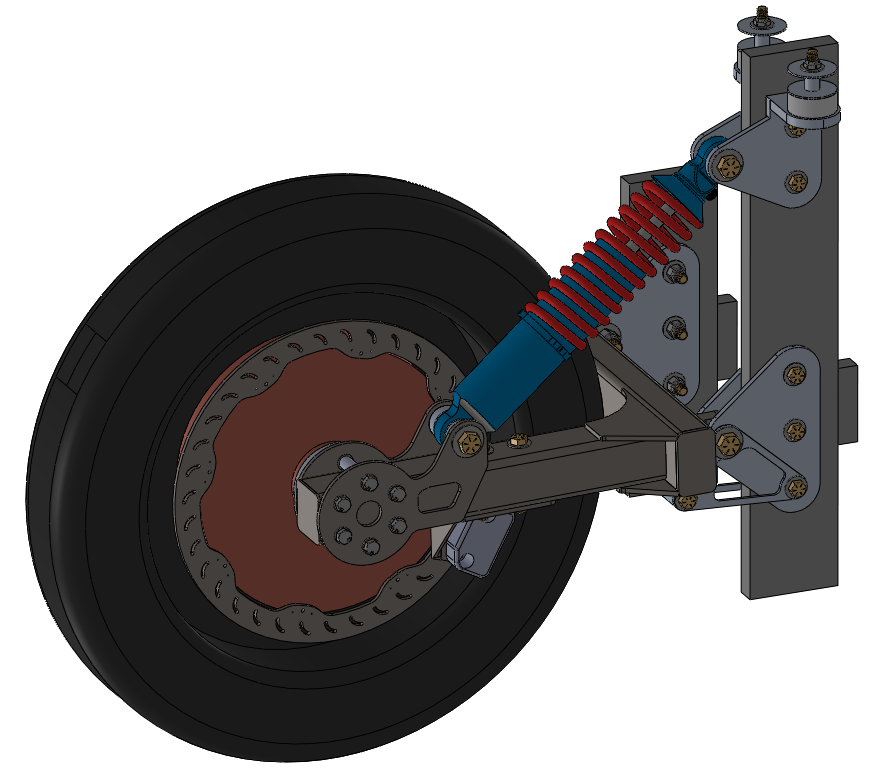
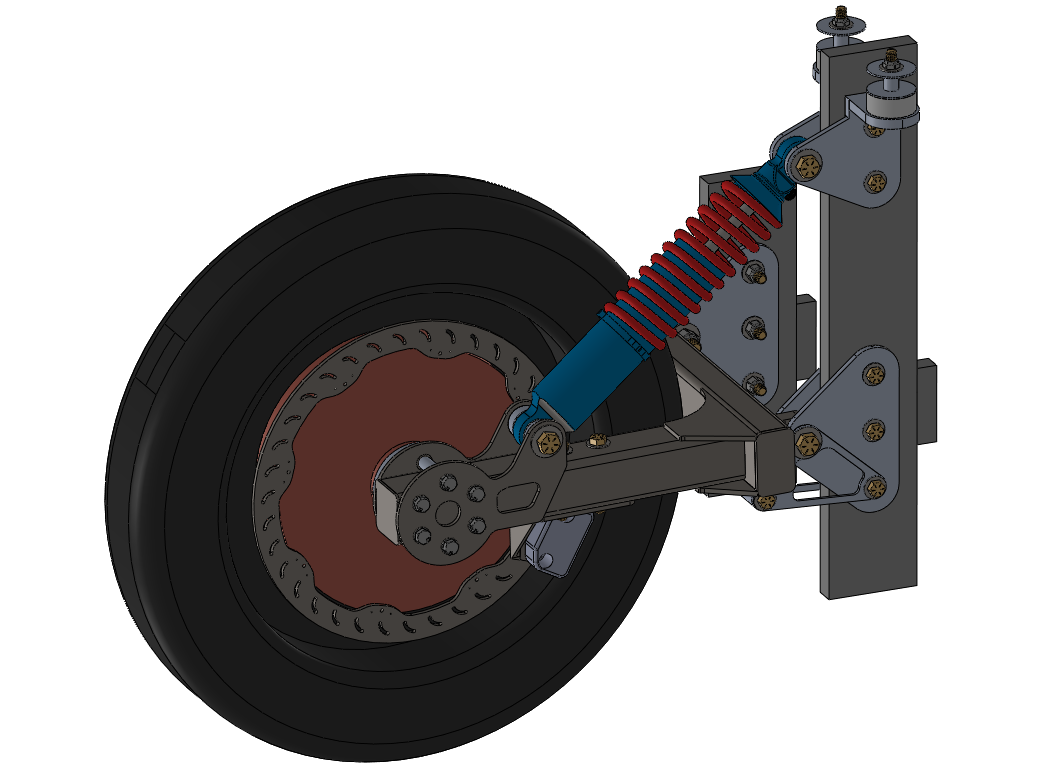
Added 2.009

diff --git a/2.009.html b/2.009.html
@@ -1,0 +1,217 @@
+<!DOCTYPE HTML>
+<!--
+	Strata by HTML5 UP
+	html5up.net | @ajlkn
+	Free for personal and commercial use under the CCA 3.0 license (html5up.net/license)
+-->
+<html>
+	<head>
+		<title>Daniel Gliksberg</title>
+		<meta charset="utf-8" />
+		<meta name="viewport" content="width=device-width, initial-scale=1, user-scalable=no" />
+		<link rel="stylesheet" href="assets/css/main.css" />
+		<link rel="icon" type="image/x-icon" href="/images/blue_sun_circle_favicon.ico">
+	</head>
+	<body class="is-preload">
+
+		<!-- Header -->
+			<header id="header" class="portfolioItem">
+				<div class="inner">
+					<a href="/" class="image avatar"><img src="images/Zoomed OUt Headshot.jpg" alt="" /></a>
+					<h1><strong>Daniel Gliksberg</strong></h1>
+					<h1>Senior&nbsp@&nbspMIT</h1>
+					<h1>Mechanical Engineering</h1>
+					<!-- <h1>Control, Instrumentation, &&nbspRobotics</h1> -->
+				</div>
+			</header>
+		<!-- Small Header-->
+			<header id = "smallHeader">
+				<div class="inner">
+				</div>
+			</header>
+		<!-- Main -->
+			<div id="main">
+
+				<!-- Intro -->
+					<section id="one">
+						<header class="major">
+							<h2>CPR Machine: Heart Bridge</h2>
+						</header>
+						<p>For my capstone class in Fall 2025, I was a leading member of a team who took it upon ourselves to design a CPR machine that bystanders could safely use in an emergency situation.</p>
+						<p>This CPR Machine, tentatively named Heart Bridge, is innovatively designed to be safe in the hands of bystanders, rather than requiring professional medical training. We are applying for a provisional patent early in 2026, with the goal of bringing Heart Bridge to market in order to make our CPR device commonly available.</p>
+						<!-- <ul class="actions">
+							<li><a href="/" class="button">Back</a></li>
+						</ul> -->
+					</section>	
+
+				<!-- Content -->
+					<section id="Content">
+                        <header>
+                            <h2>Ideation</h2>
+                        </header>
+                        <p>The first month or so of the class was dedicated to finding an idea for a innovative product based on our own market research, prototyping, and user interviews. At the end of this process, we settled on a CPR device for bystanders to use. We found that existing CPR devices, such as the Stryker LUCAS or the Zoll AutoPulse, were targeted at trained medical professionals as a way to free up hands, and that there was not a device on the market aimed at improving bystander CPR. Survival rates after a cardiac event decrease by about 10% every minute without CPR, but bystanders cannot keep good compressions for more than three minutes. We wanted to create a device that would be safe and easy to use for bystanders, and that would improve the quality of CPR being administered in emergency situations to the level professionals can achieve.</p>
+                        <p>Our first prototype was a demonstration of our idea to solve this problem. Existing CPR devices brace themselves against the patient, which requires repositioning to slide the device under the patient. This requires training to be done safely, especially in cardiac events where people not on the ground of their own volution may have spinal injuries. Our idea was to have the device be held in place by the body weight of two bystanders, so no repositioning is required. This first prototype showed that structure, along with a mock actuator and end effector to demonstrate the expected behavior of the device.</p>
+                        <p>As lead of the actuator subteam, I led the design decisions that resulted in our choice of actuation method (more detail later) and designed the mock actuator model for our demonstration.</p>
+
+                        <div class="row">
+                            <article class="col-6 col-12-xsmall work-item">
+								<a href="images/2.009/M3 Actuator.JPG" class="image fit thumb"><img src="images/2.009/M3 Actuator.JPG" alt=""></a>
+								<div class = "caption">
+									<h3>The mock actuator model for our first prototype, demonstrating our rack and pinion actuation method.</h3>
+								</div>
+							</article>
+                            <article class="col-6 col-12-xsmall work-item">
+								<a href="images/2.009/M3 Device.jpg" class="image fit thumb"><img src="images/2.009/M3 Device.jpg" alt=""></a>
+								<div class = "caption">
+									<h3>A view of the demo actuator mounted to the first prototype frame.</h3>
+								</div>
+							</article>
+						</div>
+
+                        <header>
+                            <h2>Refinement</h2>
+                        </header>
+                        <p>After the proof-of-concept prototype, the actuation subteam began work on an actuator that would meet our design requirements for professional-level CPR. We needed to be able to apply a maximum 500 N of force, with failsafes to ensure we never go past that limit; be able to perform compressions at 107 bpm, the recommendation in literature for mechanical CPR; compress to a depth of 5 cm from the surface of the chest; run for 30 minutes continuously; and take less than 10 seconds total to start automatic compressions after manual ones are stopped.</p>
+                        <p>We chose a rack and pinion with a geared-down input, because we found that we could get the necessary force and speed out of off-the-shelf components while keeping the system linear for easy control. At this stage of the process, I led the electromechanical design of the actuator, including the selection of components, simulation of the system statically via ANSYS FEA and dynamically via Simulink/MATLAB, design of mechanism-critical components, and design of the integration between the frame and actuator. I also wrote the majority of the codebase for the motor controller and the framework for integration with the human-machine interaction subteam's code. The codebase and the Simulink/Matlab work can be found in the project's Github repository <a href="https://github.com/Jack-p-hammer/2.009-Green-Team">here</a>. The final codebase is on the 'final' branch, and the Simulink/MATLAB work is in the 'M4' folder.</p>
+
+                        <div class="row">
+                            <article class="col-6 col-12-xsmall work-item">
+								<a href="images/2.009/MATLAB.png" class="image fit thumb"><img src="images/2.009/MATLAB.png" alt=""></a>
+								<div class = "caption">
+									<h3>MATLAB plots used to analyse performance of control system. Left shows Nyquist plot of controlled system, right shows Bode plot of open-loop system (top) and continuous-time and discrete-time controllers overlaid (bottom).</h3>
+								</div>
+							</article>  
+                            <article class="col-6 col-12-xsmall work-item">
+								<a href="images/2.009/Simulink.png" class="image fit thumb"><img src="images/2.009/Simulink.png" alt=""></a>
+								<div class = "caption">
+									<h3>Simulink output for the actuator given the rack and pinion system and the discrete torque-control system I designed.</h3>
+								</div>
+							</article>                            
+                            <article class="col-6 col-12-xsmall work-item">
+								<a href="images/2.009/Rack Bushing-Plates-Free runner pinion.JPG" class="image fit thumb"><img src="images/2.009/Rack Bushing-Plates-Free runner pinion.JPG" alt=""></a>
+								<div class = "caption">
+									<h3>Main body of the actuator, with sliding bushing for rack, free-running pinion, and waterjet frame plates.</h3>
+								</div>
+							</article>
+                            <article class="col-6 col-12-xsmall work-item">
+								<a href="images/2.009/ANSYS.PNG" class="image fit thumb"><img src="images/2.009/ANSYS.PNG" alt=""></a>
+								<div class = "caption">
+									<h3>ANSYS FEA simulation of the device's structural components under the maximum 500 N load. This shows that the maximum deflection of the actuator is low relative to the motion of the end effector (3 mm vs. 5 cm), and could thus be ignored.</h3>
+								</div>
+							</article>
+                            <article class="col-6 col-12-xsmall work-item">
+								<a href="images/2.009/M4 Actuator.JPG" class="image fit thumb"><img src="images/2.009/M4 Actuator.JPG" alt=""></a>
+								<div class = "caption">
+									<h3>Another actuator prototype, this time with the final motor, gearbox, and rack & pinion system.</h3>
+								</div>
+							</article>
+                            <article class="col-6 col-12-xsmall work-item">
+								<a href="images/2.009/Final Actuator.png" class="image fit thumb"><img src="images/2.009/Final Actuator.png" alt=""></a>
+								<div class = "caption">
+									<h3>Cross-sectional view of the actuator, showing the rack & pinion system.</h3>
+								</div>
+							</article>
+						</div>
+
+                        <header>
+                            <h2>Presentation Device</h2>
+                        </header>
+                        <p>At the end of the semester, the final task for the actuation team was to integrate the existing electronics and code for the motor controller with the electronics and code for the screen and user interface. In the end, we made it all work, but we significantly underestimated the time we would spend troubleshooting the integration. By this point of the semester, I had transition fully towards being the electrical lead for the team, now that the mechanical design work for the actuator was done. I was responsible for keeping track of the electrical integration between human-machine interface and the motor controller, and soldered most of the electrical connections. From there, it was just a jigsaw puzzle to fit everything in the outer enclosure.This was also the point in the semester that we settled on the name Heart Bridge for the device.</p>
+                        <p>In the end, we were able to meet all of the design constraints we set out for ourselves, except for the 10 second time between end of manual compressions and start of automatic compressions. Unfortunately, we did not have time to tune our homing routine enough before the end of the semester. We plan to continue this project in the future, however, and this is one of the improvements we will make.</p>
+
+                        <div class="row">
+                            <article class="col-6 col-12-xsmall work-item">
+								<a href="images/2.009/No Egg actuator.JPG" class="image fit thumb"><img src="images/2.009/No Egg actuator.JPG" alt=""></a>
+								<div class = "caption">
+									<h3>Our final actuator, with wiring that was not attached to the device's housing</h3>
+								</div>
+							</article>  
+                            <article class="col-6 col-12-xsmall work-item">
+								<a href="images/2.009/Rat's Nest.JPG" class="image fit thumb"><img src="images/2.009/Rat's Nest.JPG" alt=""></a>
+								<div class = "caption">
+									<h3>View of the inside of Heart Bridge, showing all of the cable routing required for all of the device's functionality.</h3>
+								</div>
+							</article>  
+                            <article class="col-6 col-12-xsmall work-item">
+								<a href="images/2.009/KiCAD Single-Pager.jpg" class="image fit thumb"><img src="images/2.009/KiCAD Single-Pager.jpg" alt=""></a>
+								<div class = "caption">
+									<h3>Single-page circuit schematic for Heart Bridge, made at the request of a teammate. An up-to-date, multi-page version is available <a href="https://github.com/Jack-p-hammer/2.009-Green-Team/blob/main/M6/CPR%20Machine%20Schematic/CPR%20Machine%20Schematic.pdf">here</a>.</h3>
+								</div>
+							</article>  
+                            <article class="col-6 col-12-xsmall work-item">
+								<a href="images/2.009/Heart Bridge No BG.png" class="image fit thumb"><img src="images/2.009/Heart Bridge No BG.png" alt=""></a>
+								<div class = "caption">
+									<h3>The final Heart Bridge device, with all components integrated.</h3>
+								</div>
+							</article>   
+                            <article class="col-6 col-12-xsmall work-item">
+								<a href="images/2.009/Bench.jpg" class="image fit thumb"><img src="images/2.009/Bench.jpg" alt=""></a>
+								<div class = "caption">
+									<h3>We decided on a storage bench as an example of a storage location for a public place.</h3>
+								</div>
+							</article>  
+                            <article class="col-6 col-12-xsmall work-item">
+								<a href="https://youtu.be/TY7GQ8qs31w" data-poptrox="youtube" class="image fit thumb"><img src="images/2.009/Final presentation thumb.jpg" alt=""></a>
+								<div class = "caption">
+									<h3>Our livestreamed final presentation, demonstrating Heart Bridge in action.</h3>
+								</div>
+							</article>                       
+						</div>
+
+                        <header>
+                            <h2>Next Steps & Reflection</h2>
+                        </header>
+                        <p>My team and I have decided to pursue this project into the future, and plan to continue development of the device and to pursue a provisional patent in early 2026. I believe that Heart Bridge has the potential to help thousands of people, especially if we reach a level of availability matching AEDs.</p>
+                        <p>If I were to start the project over again with the knowledge I have now, I would have pushed for our team to decide on an idea to pursue earlier so that we would have been less crunched for time when we were developing the actual CPR device. A lot of the compromises we made (which we will fix going forward) were caused primarily by time constraints.</p>
+
+
+                    <ul class="actions">
+                        <li><a href="/" class="button">Back</a></li>
+                    </ul>
+					</section>
+					<section id="Contact">
+							<div class="col-4 col-12-small">
+								<ul class="labeled-icons">
+									<li>
+										<h3 class="icon solid fa-home"><span class="label">Address</span></h3>
+										Cambridge, MA
+									</li>
+									<li>
+										<h3 class="icon solid fa-mobile-alt"><span class="label">Phone</span></h3>
+										617-784-0066
+									</li>
+									<li>
+										<h3 class="icon solid fa-envelope"><span class="label">Email</span></h3>
+										<a href="mailto:danielgliksberg@gmail.com">danielgliksberg@gmail.com</a>
+									</li>
+								</ul>
+							</div>
+						</div>
+					</section>
+			</div>
+
+		<!-- Footer -->
+			<footer id="footer">
+				<div class="inner">
+					<ul class="icons">
+						<li><a href="https://www.linkedin.com/in/daniel-gliksberg-669803196/" class="icon brands fa-linkedin"><span class="label">LinkedIn</span></a></li>
+						<li><a href="https://github.com/dgliksberg" class="icon brands fa-github"><span class="label">Github</span></a></li>
+						<!-- <li><a href="#" class="icon brands fa-dribbble"><span class="label">Dribbble</span></a></li> -->
+						<li><a href="mailto:danielgliksberg@gmail.com" class="icon solid fa-envelope"><span class="label">Email</span></a></li>
+					</ul>
+					<ul class="copyright">
+						<li>&copy; Daniel Gliksberg</li><li>Design: <a href="http://html5up.net">HTML5 UP</a></li>
+					</ul>
+				</div>
+			</footer>
+
+		<!-- Scripts -->
+			<script src="assets/js/jquery.min.js"></script>
+			<script src="assets/js/jquery.poptrox.min.js"></script>
+			<script src="assets/js/browser.min.js"></script>
+			<script src="assets/js/breakpoints.min.js"></script>
+			<script src="assets/js/util.js"></script>
+			<script src="assets/js/main.js"></script>
+
+	</body>
+</html>

diff --git a/index.html b/index.html
@@ -60,6 +60,19 @@
 								</ul> -->
 							</article>
 							<article class="col-6 col-12-xsmall work-item">
+								<a href="2.009.html" class="image fit thumb"><img src="images/2.009/Heart Bridge no logo.JPG" alt="" /></a>
+								<div class = "caption">
+									<h3>Heart Bridge</h3>
+								</div>
+								<div class = "subtitle">
+									<p>A CPR machine designed to be safe and easy for bystanders to use in emergency situations.</p>
+								</div>
+								<br>
+								<!-- <ul class="actions">
+									<li><a href="#" class="button">Learn More</a></li>
+								</ul> -->
+							</article>
+							<article class="col-6 col-12-xsmall work-item">
 								<a href="MRL.html" class="image fit thumb"><img src="images/MRL/FinalOptical.JPG" alt="" /></a>
 								<div class = "caption">
 									<h3>Custom Spin Coater, High-Resolution Measurement, and Bio-Inspired Actuators</h3>
@@ -136,7 +149,7 @@
 								<!-- <ul class="actions">
 									<li><a href="#" class="button">Learn More</a></li>
 								</ul> -->
-							</article>
+							<!-- </article>
 							<article class="col-6 col-12-xsmall work-item">
 								<a href="MRL Machining.html" class="image fit thumb"><img src="images/Mechatronics IAP/Mount Plate.JPG" alt="" /></a>
 								<div class = "caption">
@@ -146,10 +159,10 @@
 									<p>Redesigned and re-manufactured bearing holders and a torque sensor mount for a predictive maintenance test rig.</p>
 								</div>
 								<br>
-								<!-- <ul class="actions">
+								<ul class="actions">
 									<li><a href="#" class="button">Learn More</a></li>
-								</ul> -->
-							</article>
+								</ul>
+							</article> -->
 							<!--
 							<article class="col-6 col-12-xsmall work-item">
 								<a href="images/fulls/06.jpg" class="image fit thumb"><img src="images/thumbs/06.jpg" alt="" /></a>
